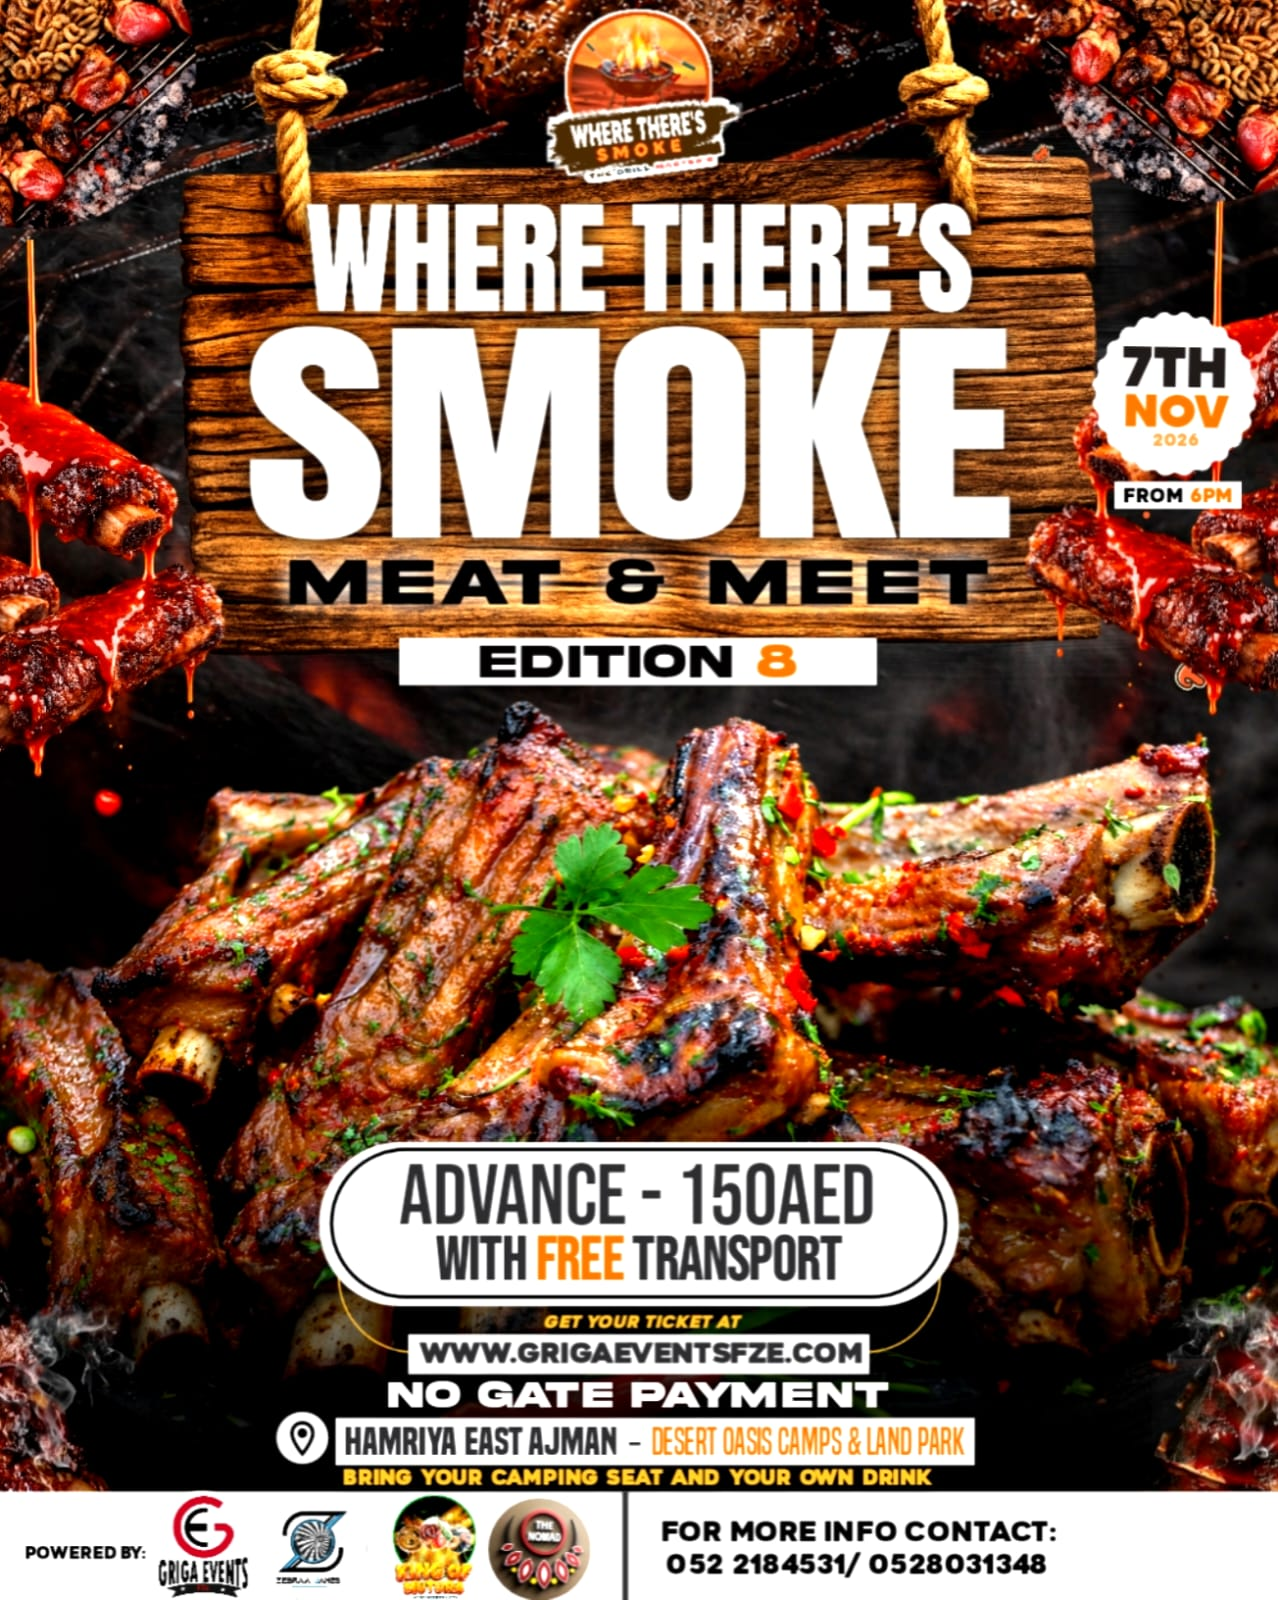
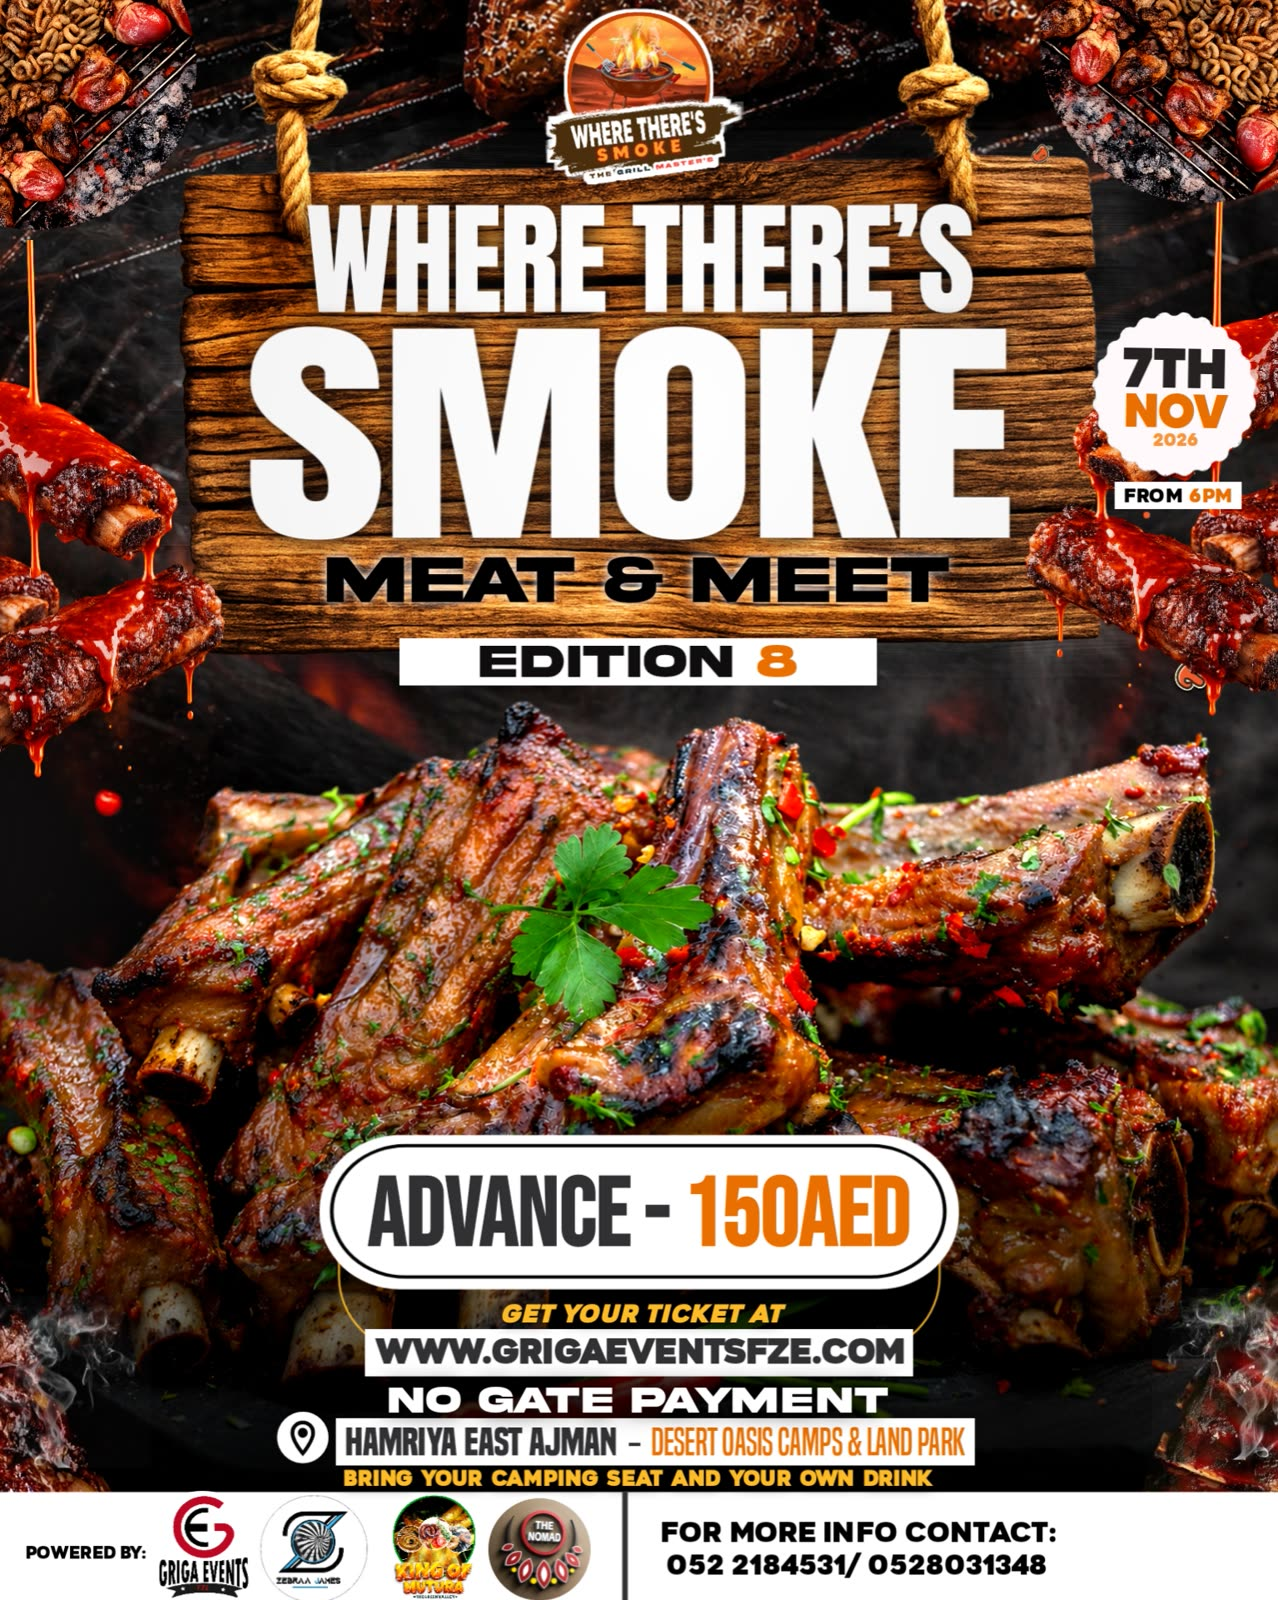
Update Edition 8 flyer with revised artwork
Regenerate the flyer jpeg and webp from the updated artwork, add ?v=20260812 cache-busters to all image references (HTML meta, img, poster, preload, CSS backgrounds), and bump CSS versions so browsers fetch the new flyer.

diff --git a/home.html b/home.html
@@ -15,16 +15,16 @@
   <meta property="og:description" content="Creating the UAE's most memorable experiences. Get tickets for Where There's Smoke Edition 8 — Saturday 7 November 2026, Ajman." />
   <meta property="og:url" content="https://grigaeventsfze.com/" />
   <meta property="og:site_name" content="GRIGA Events FZE" />
-  <meta property="og:image" content="https://grigaeventsfze.com/assets/media/images/where there's smoke edition 8.jpeg" />
+  <meta property="og:image" content="https://grigaeventsfze.com/assets/media/images/where there's smoke edition 8.jpeg?v=20260812" />
   <meta name="twitter:card" content="summary_large_image" />
   <meta name="twitter:title" content="GRIGA Events FZE | Experience Dubai's Premier Events" />
   <meta name="twitter:description" content="Creating the UAE's most memorable experiences. Get tickets for Where There's Smoke Edition 8 — Saturday 7 November 2026, Ajman." />
-  <meta name="twitter:image" content="https://grigaeventsfze.com/assets/media/images/where there's smoke edition 8.jpeg" />
+  <meta name="twitter:image" content="https://grigaeventsfze.com/assets/media/images/where there's smoke edition 8.jpeg?v=20260812" />
   <link rel="preconnect" href="https://unpkg.com" crossorigin />
   <link rel="stylesheet" href="https://unpkg.com/aos@2.3.4/dist/aos.css" />
   <link rel="stylesheet" href="https://unpkg.com/swiper@9/swiper-bundle.min.css" />
-  <link rel="stylesheet" href="assets/css/style.css?v=20250608.6" />
-  <link rel="preload" as="image" href="assets/media/images/where there's smoke edition 8.webp" fetchpriority="high" />
+  <link rel="stylesheet" href="assets/css/style.css?v=20260812.1" />
+  <link rel="preload" as="image" href="assets/media/images/where there's smoke edition 8.webp?v=20260812" fetchpriority="high" />
   <link rel="icon" href="assets/media/logos/fav.jpg" type="image/jpeg" />
 </head>
 <body>
@@ -59,7 +59,7 @@
   <!-- Hero -->
   <section class="hero" id="top">
     <div class="hero-poster" aria-hidden="true"></div>
-    <video class="hero-video" autoplay muted loop playsinline preload="none" poster="assets/media/images/where there's smoke edition 8.webp" data-src="assets/media/videos/hero-bg-optimized.mp4" data-fallback="assets/media/videos/hero-bg.mp4">
+    <video class="hero-video" autoplay muted loop playsinline preload="none" poster="assets/media/images/where there's smoke edition 8.webp?v=20260812" data-src="assets/media/videos/hero-bg-optimized.mp4" data-fallback="assets/media/videos/hero-bg.mp4">
       <!-- Source is injected on load; the video fades in once it can play smoothly. -->
     </video>
     <div class="hero-bg-layer hero-bg-overlay"></div>
@@ -91,8 +91,8 @@
           <div class="swiper-slide">
             <article class="event-card">
               <picture>
-                <source srcset="assets/media/images/where%20there's%20smoke%20edition%208.webp" type="image/webp" />
-                <img src="assets/media/images/where there's smoke edition 8.jpeg" alt="Where There's Smoke Edition 8 poster" width="1278" height="1600" loading="lazy" decoding="async" />
+                <source srcset="assets/media/images/where%20there's%20smoke%20edition%208.webp?v=20260812" type="image/webp" />
+                <img src="assets/media/images/where there's smoke edition 8.jpeg?v=20260812" alt="Where There's Smoke Edition 8 poster" width="1278" height="1600" loading="lazy" decoding="async" />
               </picture>
               <div class="event-card-body">
                 <h3>Where There's Smoke Edition 8</h3>

diff --git a/events.html b/events.html
@@ -11,11 +11,11 @@
   <meta property="og:title" content="WHERE THERE'S SMOKE 8TH EDITION | GRIGA Events FZE" />
   <meta property="og:description" content="Experience Where There's Smoke 8th Edition on 7 November 2026 from dusk until dawn at HAMRIYA EAST AJMAN - DESERT OASIS CAMPS &amp; LAND PARK. Advance tickets available now." />
   <meta property="og:url" content="https://grigaeventsfze.com/events.html" />
-  <meta property="og:image" content="https://grigaeventsfze.com/assets/media/images/where there's smoke edition 8.jpeg" />
+  <meta property="og:image" content="https://grigaeventsfze.com/assets/media/images/where there's smoke edition 8.jpeg?v=20260812" />
   <meta property="og:site_name" content="GRIGA Events FZE" />
   <link rel="stylesheet" href="https://unpkg.com/aos@2.3.4/dist/aos.css" />
-  <link rel="stylesheet" href="assets/css/style.css?v=20250608.3" />
-  <link rel="stylesheet" href="assets/css/events.css" />
+  <link rel="stylesheet" href="assets/css/style.css?v=20260812.1" />
+  <link rel="stylesheet" href="assets/css/events.css?v=20260812.1" />
   <link rel="icon" href="assets/media/logos/fav.jpg" type="image/jpeg" />
 </head>
 <body>
@@ -48,7 +48,7 @@
 
   <main>
     <section id="top" class="hero-section" data-aos="fade-up">
-      <div class="hero-media" aria-hidden="true" style="background-image: url('assets/media/images/where there\'s smoke edition 8.jpeg');"></div>
+      <div class="hero-media" aria-hidden="true" style="background-image: url('assets/media/images/where there\'s smoke edition 8.jpeg?v=20260812');"></div>
       <div class="hero-overlay"></div>
       <div class="hero-content container">
         <p class="eyebrow">7 November 2026 · 6:00 PM Till Dawn · HAMRIYA EAST AJMAN - DESERT OASIS CAMPS &amp; LAND PARK</p>
@@ -116,7 +116,7 @@
           <h2>Official Flyer</h2>
         </header>
         <div class="flyer-frame">
-          <img src="assets/media/images/where there's smoke edition 8.jpeg" alt="Where There's Smoke Edition 8 poster" />
+          <img src="assets/media/images/where there's smoke edition 8.jpeg?v=20260812" alt="Where There's Smoke Edition 8 poster" />
         </div>
       </div>
     </section>
@@ -198,7 +198,7 @@
         }
       },
         "image": [
-        "https://grigaeventsfze.com/assets/media/images/where there's smoke edition 8.jpeg"
+        "https://grigaeventsfze.com/assets/media/images/where there's smoke edition 8.jpeg?v=20260812"
       ],
       "description": "Where There's Smoke 8th Edition is a premier meat festival featuring nyama choma, live music, and great vibes.",
       "offers": {

diff --git a/tickets.html b/tickets.html
@@ -10,11 +10,11 @@
   <meta property="og:description" content="Secure your tickets for Where There's Smoke Edition 8 on 7 November 2026 at HAMRIYA EAST AJMAN - DESERT OASIS CAMPS &amp; LAND PARK." />
   <meta property="og:url" content="https://grigaeventsfze.com/tickets.html" />
   <meta property="og:site_name" content="GRIGA Events FZE" />
-  <meta property="og:image" content="https://grigaeventsfze.com/assets/media/images/where there's smoke edition 8.jpeg" />
+  <meta property="og:image" content="https://grigaeventsfze.com/assets/media/images/where there's smoke edition 8.jpeg?v=20260812" />
   <link rel="canonical" href="https://grigaeventsfze.com/tickets.html" />
   <link rel="stylesheet" href="https://unpkg.com/aos@2.3.4/dist/aos.css" />
-  <link rel="stylesheet" href="assets/css/style.css?v=20250608.3" />
-  <link rel="stylesheet" href="assets/css/tickets.css?v=20250607.10" />
+  <link rel="stylesheet" href="assets/css/style.css?v=20260812.1" />
+  <link rel="stylesheet" href="assets/css/tickets.css?v=20260812.1" />
   <link rel="stylesheet" href="assets/css/shop.css?v=20250607.21" />
   <link rel="icon" href="assets/media/logos/fav.jpg" type="image/jpeg" />
 </head>
@@ -286,7 +286,7 @@
       }
     },
     "image": [
-      "https://grigaeventsfze.com/assets/media/images/where there's smoke edition 8.jpeg"
+      "https://grigaeventsfze.com/assets/media/images/where there's smoke edition 8.jpeg?v=20260812"
     ],
     "description": "Premium Where There's Smoke Edition 8 hospitality with nyama choma, live music, and great vibes at HAMRIYA EAST AJMAN - DESERT OASIS CAMPS & LAND PARK.",
     "offers": {

diff --git a/shop.html b/shop.html
@@ -19,8 +19,8 @@
   <link rel="preload" as="image" href="assets/media/shop/jerseys/optimized/jersey men 1.webp" type="image/webp" fetchpriority="high" />
   <link rel="stylesheet" href="https://unpkg.com/aos@2.3.4/dist/aos.css" />
   <link rel="stylesheet" href="https://unpkg.com/swiper@9/swiper-bundle.min.css" />
-  <link rel="stylesheet" href="assets/css/style.css?v=20250608.3" />
-  <link rel="stylesheet" href="assets/css/tickets.css?v=20250607.10" />
+  <link rel="stylesheet" href="assets/css/style.css?v=20260812.1" />
+  <link rel="stylesheet" href="assets/css/tickets.css?v=20260812.1" />
   <link rel="stylesheet" href="assets/css/shop.css?v=20250607.23" />
   <link rel="icon" href="assets/media/logos/fav.jpg" type="image/jpeg" />
 </head>

diff --git a/sponsors.html b/sponsors.html
@@ -16,7 +16,7 @@
   <link rel="stylesheet" href="https://unpkg.com/aos@2.3.4/dist/aos.css" />
   <link rel="stylesheet" href="https://fonts.googleapis.com/css2?family=Playfair+Display:wght@400;600;700&display=swap" />
   <link rel="stylesheet" href="https://cdnjs.cloudflare.com/ajax/libs/font-awesome/6.5.0/css/all.min.css" />
-  <link rel="stylesheet" href="assets/css/style.css?v=20250608.3" />
+  <link rel="stylesheet" href="assets/css/style.css?v=20260812.1" />
   <link rel="icon" href="assets/media/logos/fav.jpg" type="image/jpeg" />
   <style>
     .sponsors-hero {

diff --git a/gallery.html b/gallery.html
@@ -15,7 +15,7 @@
   <meta property="og:site_name" content="GRIGA Events FZE" />
   <meta name="twitter:card" content="summary_large_image" />
   <link rel="stylesheet" href="https://unpkg.com/aos@2.3.4/dist/aos.css" />
-  <link rel="stylesheet" href="assets/css/style.css?v=20250608.3" />
+  <link rel="stylesheet" href="assets/css/style.css?v=20260812.1" />
   <link rel="stylesheet" href="assets/css/gallery.css?v=20251117.1" />
   <link rel="icon" href="assets/media/logos/fav.jpg" type="image/jpeg" />
 </head>

diff --git a/contact.html b/contact.html
@@ -14,7 +14,7 @@
   <meta property="og:site_name" content="GRIGA Events FZE" />
   <meta name="twitter:card" content="summary" />
   <link rel="stylesheet" href="https://unpkg.com/aos@2.3.4/dist/aos.css" />
-  <link rel="stylesheet" href="assets/css/style.css?v=20250608.3" />
+  <link rel="stylesheet" href="assets/css/style.css?v=20260812.1" />
   <link rel="stylesheet" href="assets/css/contact.css?v=20251123.1" />
   <link rel="icon" href="assets/media/logos/fav.jpg" type="image/jpeg" />
 </head>

diff --git a/assets/css/tickets.css b/assets/css/tickets.css
@@ -17,7 +17,7 @@ body.tickets-body {
   justify-content: center;
   text-align: center;
   overflow: hidden;
-  background-image: linear-gradient(135deg, rgba(209, 31, 38, 0.85), rgba(0, 0, 0, 0.9)), url("../media/images/where there's smoke edition 8.jpeg");
+  background-image: linear-gradient(135deg, rgba(209, 31, 38, 0.85), rgba(0, 0, 0, 0.9)), url("../media/images/where there's smoke edition 8.jpeg?v=20260812");
   background-size: cover;
   background-position: center;
 }

diff --git a/assets/css/events.css b/assets/css/events.css
@@ -52,7 +52,7 @@ a {
 .hero-media {
   position: absolute;
   inset: 0;
-  background-image: linear-gradient(180deg, rgba(0, 0, 0, 0.35), rgba(0, 0, 0, 0.8)), url("../media/images/where there's smoke edition 8.jpeg");
+  background-image: linear-gradient(180deg, rgba(0, 0, 0, 0.35), rgba(0, 0, 0, 0.8)), url("../media/images/where there's smoke edition 8.jpeg?v=20260812");
   background-size: cover;
   background-position: center;
   filter: saturate(1.1);

diff --git a/assets/css/style.css b/assets/css/style.css
@@ -344,7 +344,7 @@ p {
   inset: 0;
   z-index: 0;
   background-image: linear-gradient(120deg, rgba(0, 0, 0, 0.25), rgba(0, 0, 0, 0.1)),
-    url("../media/images/where there's smoke edition 8.webp");
+    url("../media/images/where there's smoke edition 8.webp?v=20260812");
   background-size: cover;
   background-position: center;
 }
